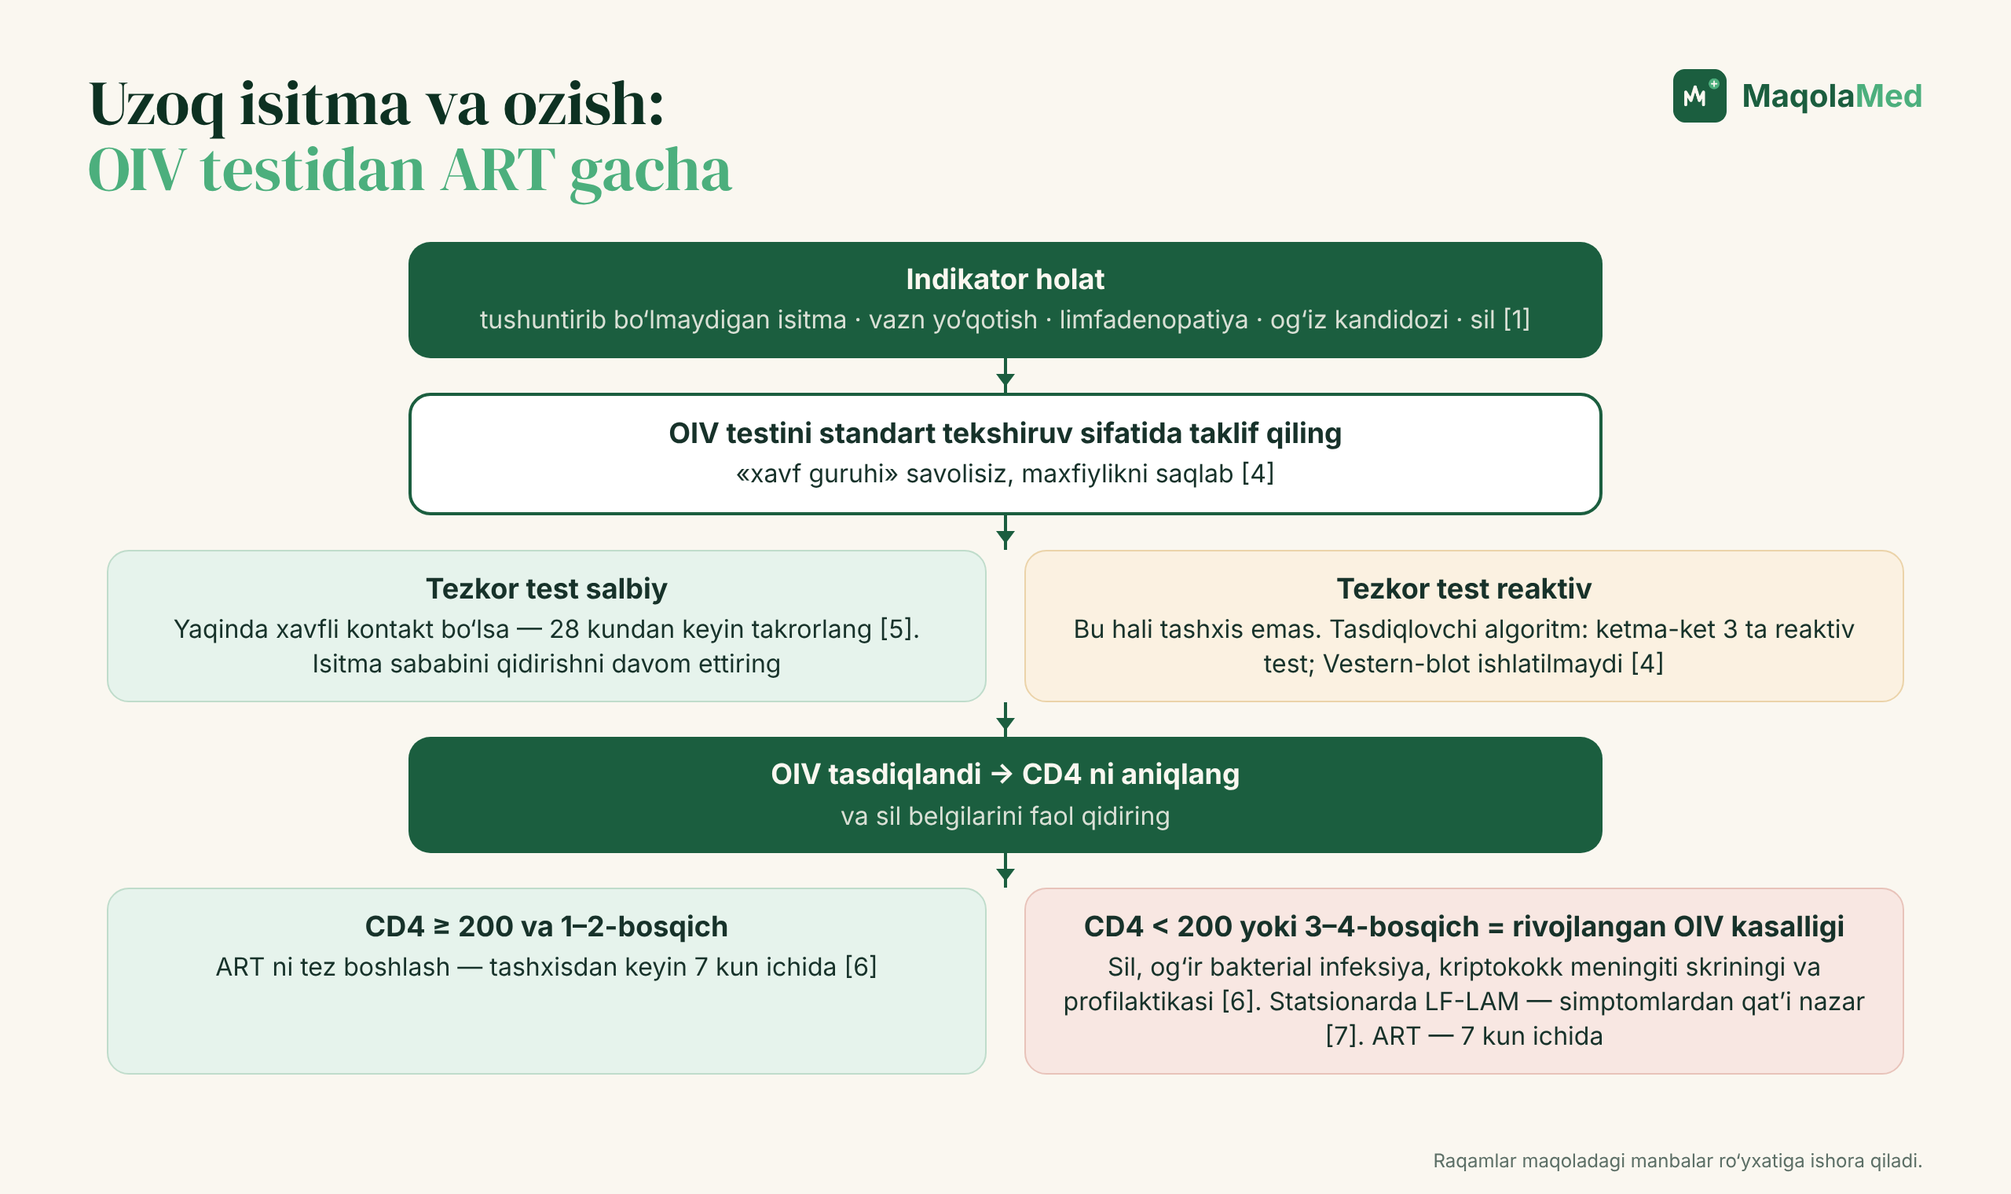
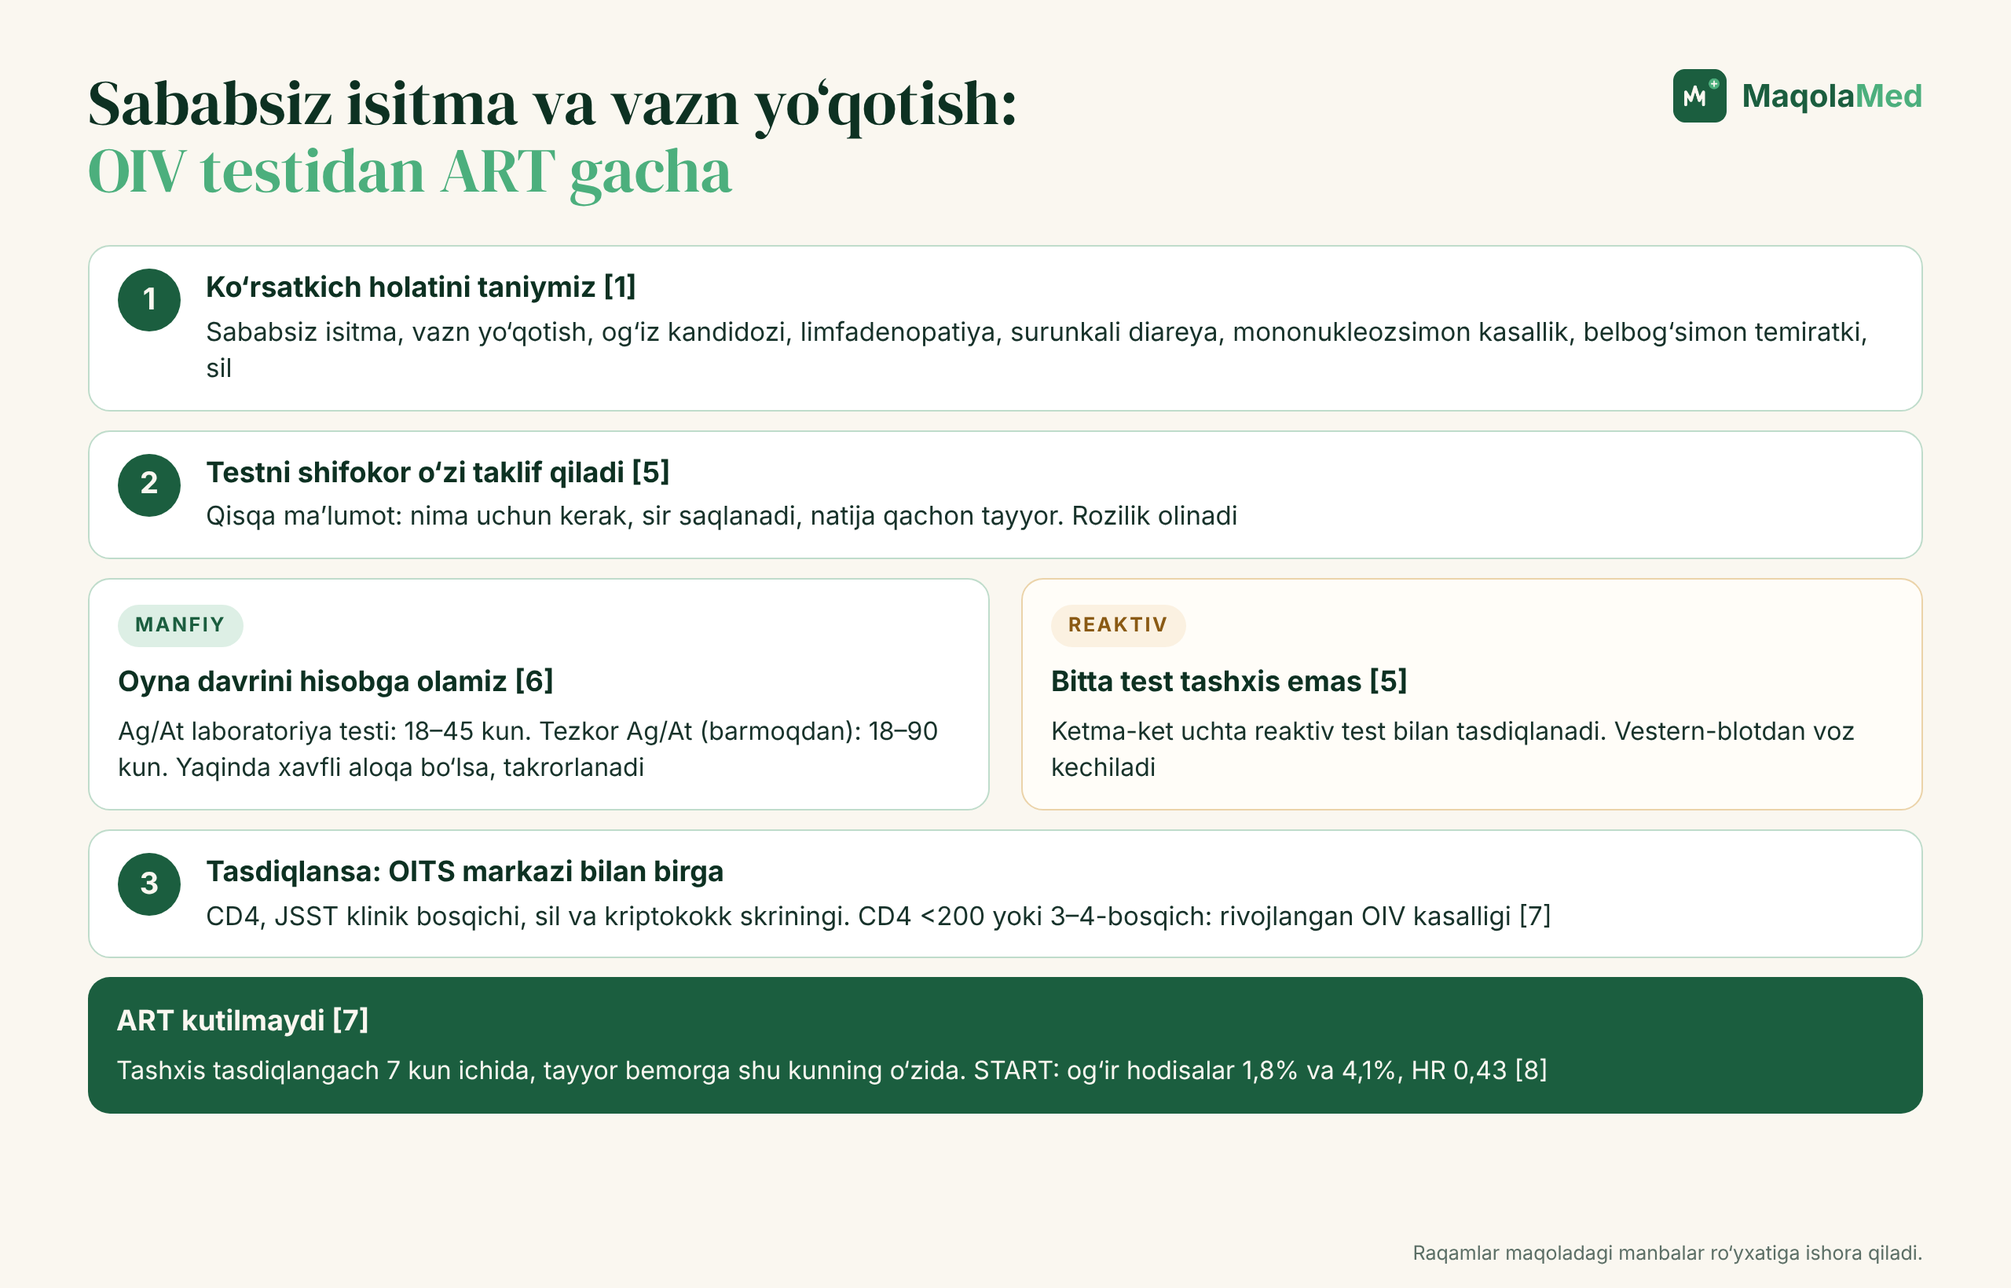
1-dekabr maqolasi qayta yozildi (v2, humanizer): OIV testi — muqovalar, 1 rasm

diff --git a/_manba/2026-12-01/muqova-instagram-4x5.html b/_manba/2026-12-01/muqova-instagram-4x5.html
@@ -1,0 +1,85 @@
+<!doctype html>
+<html lang="uz">
+<head>
+<meta charset="utf-8"><base href="file:///home/claude/maqolamed-rasmlar/_shablon/">
+<style>
+@font-face{font-family:"DM Serif Display";src:url("fonts/dm-serif-display-latin-400-normal.woff2") format("woff2");}
+@font-face{font-family:"DM Serif Display";src:url("fonts/dm-serif-display-latin-ext-400-normal.woff2") format("woff2");unicode-range:U+0100-024F,U+1E00-1EFF;}
+:root{
+  --emerald:#1B5E3F; --deep:#0D3122; --cream:#FAF7F0; --mint:#7FC9A0; --green:#4CAF7D;
+}
+*{margin:0;padding:0;box-sizing:border-box}
+html,body{width:1280px;height:720px;overflow:hidden;background:var(--deep)}
+.cover{position:relative;width:1280px;height:720px;overflow:hidden;font-family:"Inter",sans-serif;color:var(--cream);
+  background:
+    radial-gradient(900px 600px at 78% 40%, rgba(76,175,125,.22), transparent 60%),
+    radial-gradient(700px 500px at 0% 100%, rgba(13,49,34,.9), transparent 70%),
+    linear-gradient(135deg,#123F2C 0%, #1B5E3F 55%, #164D34 100%);}
+.grid{position:absolute;inset:0;background-image:
+    linear-gradient(rgba(250,247,240,.035) 1px,transparent 1px),
+    linear-gradient(90deg,rgba(250,247,240,.035) 1px,transparent 1px);
+  background-size:40px 40px;}
+.ekg{position:absolute;left:0;top:300px;width:1280px;height:200px;opacity:.16}
+.left{position:absolute;left:64px;top:52px;width:690px}
+.brand{display:flex;align-items:center;gap:28px}
+.brand img{height:62px;display:block}
+.tag{display:flex;align-items:center;gap:14px;font-size:13px;letter-spacing:.32em;color:rgba(250,247,240,.72);font-weight:500}
+.tag i{width:4px;height:4px;border-radius:50%;background:var(--mint);display:inline-block}
+.tag .line{width:90px;height:1px;background:rgba(250,247,240,.35)}
+.kicker{margin-top:54px;display:inline-flex;align-items:center;gap:10px;font-size:15px;font-weight:600;letter-spacing:.14em;text-transform:uppercase;color:var(--mint)}
+.kicker span{display:inline-block;width:28px;height:2px;background:var(--mint)}
+h1{margin-top:16px;font-family:"DM Serif Display",serif;font-weight:400;font-size:78px;line-height:.98;letter-spacing:-.01em;color:var(--cream)}
+h1 em{font-style:normal;color:var(--mint)}
+.sub{margin-top:22px;font-size:21px;color:rgba(250,247,240,.82);font-weight:400}
+.points{position:absolute;left:64px;bottom:50px;display:flex;gap:0}
+.pt{width:172px;padding-right:18px;display:flex;flex-direction:column;align-items:flex-start;gap:12px}
+.pt + .pt{padding-left:22px;border-left:1px solid rgba(250,247,240,.18)}
+.ic{width:52px;height:52px;border-radius:50%;border:1.6px solid rgba(250,247,240,.75);display:grid;place-items:center}
+.ic svg{width:26px;height:26px;stroke:var(--cream);fill:none;stroke-width:1.7;stroke-linecap:round;stroke-linejoin:round}
+.pt p{font-size:15px;line-height:1.3;color:rgba(250,247,240,.92);font-weight:500}
+.card{position:absolute;right:56px;top:96px;width:400px;border-radius:22px;padding:28px 30px 26px;
+  background:linear-gradient(160deg,rgba(13,49,34,.82),rgba(13,49,34,.62));
+  border:1px solid rgba(127,201,160,.35);box-shadow:0 30px 60px rgba(0,0,0,.35)}
+.card .ch{display:flex;justify-content:space-between;align-items:center}
+.card .lbl{font-size:12px;letter-spacing:.24em;font-weight:600;color:var(--mint)}
+.card .pill{font-size:12px;font-weight:600;padding:5px 10px;border-radius:999px;background:rgba(127,201,160,.16);color:var(--mint)}
+.card h3{margin-top:14px;font-size:22px;font-weight:600}
+.card h3 small{display:block;margin-top:4px;font-size:14px;font-weight:400;color:rgba(250,247,240,.65)}
+.rows{margin-top:18px;border-top:1px solid rgba(250,247,240,.14)}
+.row{display:flex;justify-content:space-between;padding:9px 0;border-bottom:1px solid rgba(250,247,240,.10);font-size:16px}
+.row span:first-child{color:rgba(250,247,240,.68)}
+.row span:last-child{font-weight:600;font-variant-numeric:tabular-nums}
+.row .ok{color:var(--mint)}
+.quote{margin-top:18px;font-family:"DM Serif Display",serif;font-size:21px;line-height:1.25;color:var(--cream)}
+.ask{margin-top:16px;display:flex;align-items:center;justify-content:space-between;padding:13px 16px;border-radius:12px;background:var(--green);color:#0D3122;font-weight:700;font-size:17px}
+.ask svg{width:22px;height:22px;stroke:#0D3122;fill:none;stroke-width:2.2;stroke-linecap:round;stroke-linejoin:round}
+
+html,body{width:1080px;height:1350px}
+.cover{width:1080px;height:1350px}
+.ekg{top:525px;width:1080px}
+.left{left:72px;top:64px;width:940px}
+.brand img{height:72px}
+h1{font-size:96px;margin-top:18px}
+.kicker{margin-top:56px;font-size:17px}
+.sub{font-size:24px}
+.card{left:72px;right:72px;top:auto;bottom:250px;width:auto;padding:30px 34px}
+.rows{display:grid;grid-template-columns:1fr 1fr;column-gap:40px}
+.quote{font-size:24px}
+.points{left:72px;right:72px;bottom:60px}
+.pt{width:auto;flex:1}
+.pt p{font-size:17px}
+
+
+</style>
+</head>
+<body><div class="cover"><div class="grid"></div>
+<svg class="ekg" viewBox="0 0 1280 200" preserveAspectRatio="none"><polyline fill="none" stroke="#7FC9A0" stroke-width="3" stroke-linejoin="round" stroke-linecap="round" points="0,120 640,120 670,120 690,98 710,120 750,120 770,40 795,175 820,120 880,120 905,102 930,120 1280,120"/></svg>
+<div class="left"><div class="brand"><img src="logo_dark_bg.png" alt="MaqolaMed"></div>
+<div class="tag" style="margin-top:22px"><span>ILM</span><i></i><span>AMALIYOT</span><i></i><span>ODAM UCHUN</span><span class="line"></span></div>
+<div class="kicker"><span></span>Klinik holat · Infeksion kasalliklar</div>
+<h1>Uzoq isitma va<br>vazn yo‘qotish:<br><em>OIV testi qachon?</em></h1>
+<div class="sub">Uchinchi antibiotik kursidan oldin to‘xtab o‘ylang.</div></div>
+<div class="points"><div class="pt"><div class="ic"><svg viewBox="0 0 24 24"><path d="M12 3l9.5 17h-19z"/><path d="M12 10v4"/><path d="M12 17v.5"/></svg></div><p>Qaysi belgilar OIV testiga sabab?</p></div><div class="pt"><div class="ic"><svg viewBox="0 0 24 24"><path d="M9 3h6"/><path d="M10 3v12.5a2 2 0 0 0 4 0V3"/><path d="M10 10h4"/><path d="M5 21h14"/></svg></div><p>Qaysi test va qachon qayta?</p></div><div class="pt"><div class="ic"><svg viewBox="0 0 24 24"><circle cx="12" cy="12" r="9"/><path d="M12 7v5l3 2"/></svg></div><p>Musbat bo‘lsa, ART ni kutamizmi?</p></div><div class="pt"><div class="ic"><svg viewBox="0 0 24 24"><circle cx="12" cy="12" r="9"/><path d="M9.5 9.5a2.5 2.5 0 1 1 3.5 2.3c-.7.3-1 .8-1 1.5v.7"/><path d="M12 17v.5"/></svg></div><p>Testni bemorga qanday taklif qilamiz?</p></div></div>
+<div class="card"><div class="ch"><span class="lbl">BEMOR KARTOCHKASI</span><span class="pill">1-dekabr</span></div>
+<h3>Erkak, 34 yosh, haydovchi<small>Tuman poliklinikasi</small></h3><div class="rows"><div class="row"><span>Isitma</span><span class="">6 hafta</span></div><div class="row"><span>Vazn</span><span class="">−7 kg</span></div><div class="row"><span>Og‘izda</span><span class="">oq karash</span></div><div class="row"><span>Bo‘yin limfa tugunlari</span><span class="">kattalashgan</span></div><div class="row"><span>Seftriakson, «sistema»</span><span class="">3 kurs</span></div><div class="row"><span>OIV testi</span><span class="ok">qilinmagan</span></div></div><div class="quote">«Yana bitta kuchliroq ukol yozing»</div><div class="ask">Siz nima qilardingiz?<svg viewBox="0 0 24 24"><path d="M5 12h14"/><path d="M13 6l6 6-6 6"/></svg></div></div>
+</div></body></html>

diff --git a/_manba/2026-12-01/muqova-16x9.html b/_manba/2026-12-01/muqova-16x9.html
@@ -1,0 +1,70 @@
+<!doctype html>
+<html lang="uz">
+<head>
+<meta charset="utf-8"><base href="file:///home/claude/maqolamed-rasmlar/_shablon/">
+<style>
+@font-face{font-family:"DM Serif Display";src:url("fonts/dm-serif-display-latin-400-normal.woff2") format("woff2");}
+@font-face{font-family:"DM Serif Display";src:url("fonts/dm-serif-display-latin-ext-400-normal.woff2") format("woff2");unicode-range:U+0100-024F,U+1E00-1EFF;}
+:root{
+  --emerald:#1B5E3F; --deep:#0D3122; --cream:#FAF7F0; --mint:#7FC9A0; --green:#4CAF7D;
+}
+*{margin:0;padding:0;box-sizing:border-box}
+html,body{width:1280px;height:720px;overflow:hidden;background:var(--deep)}
+.cover{position:relative;width:1280px;height:720px;overflow:hidden;font-family:"Inter",sans-serif;color:var(--cream);
+  background:
+    radial-gradient(900px 600px at 78% 40%, rgba(76,175,125,.22), transparent 60%),
+    radial-gradient(700px 500px at 0% 100%, rgba(13,49,34,.9), transparent 70%),
+    linear-gradient(135deg,#123F2C 0%, #1B5E3F 55%, #164D34 100%);}
+.grid{position:absolute;inset:0;background-image:
+    linear-gradient(rgba(250,247,240,.035) 1px,transparent 1px),
+    linear-gradient(90deg,rgba(250,247,240,.035) 1px,transparent 1px);
+  background-size:40px 40px;}
+.ekg{position:absolute;left:0;top:300px;width:1280px;height:200px;opacity:.16}
+.left{position:absolute;left:64px;top:52px;width:690px}
+.brand{display:flex;align-items:center;gap:28px}
+.brand img{height:62px;display:block}
+.tag{display:flex;align-items:center;gap:14px;font-size:13px;letter-spacing:.32em;color:rgba(250,247,240,.72);font-weight:500}
+.tag i{width:4px;height:4px;border-radius:50%;background:var(--mint);display:inline-block}
+.tag .line{width:90px;height:1px;background:rgba(250,247,240,.35)}
+.kicker{margin-top:54px;display:inline-flex;align-items:center;gap:10px;font-size:15px;font-weight:600;letter-spacing:.14em;text-transform:uppercase;color:var(--mint)}
+.kicker span{display:inline-block;width:28px;height:2px;background:var(--mint)}
+h1{margin-top:16px;font-family:"DM Serif Display",serif;font-weight:400;font-size:78px;line-height:.98;letter-spacing:-.01em;color:var(--cream)}
+h1 em{font-style:normal;color:var(--mint)}
+.sub{margin-top:22px;font-size:21px;color:rgba(250,247,240,.82);font-weight:400}
+.points{position:absolute;left:64px;bottom:50px;display:flex;gap:0}
+.pt{width:172px;padding-right:18px;display:flex;flex-direction:column;align-items:flex-start;gap:12px}
+.pt + .pt{padding-left:22px;border-left:1px solid rgba(250,247,240,.18)}
+.ic{width:52px;height:52px;border-radius:50%;border:1.6px solid rgba(250,247,240,.75);display:grid;place-items:center}
+.ic svg{width:26px;height:26px;stroke:var(--cream);fill:none;stroke-width:1.7;stroke-linecap:round;stroke-linejoin:round}
+.pt p{font-size:15px;line-height:1.3;color:rgba(250,247,240,.92);font-weight:500}
+.card{position:absolute;right:56px;top:96px;width:400px;border-radius:22px;padding:28px 30px 26px;
+  background:linear-gradient(160deg,rgba(13,49,34,.82),rgba(13,49,34,.62));
+  border:1px solid rgba(127,201,160,.35);box-shadow:0 30px 60px rgba(0,0,0,.35)}
+.card .ch{display:flex;justify-content:space-between;align-items:center}
+.card .lbl{font-size:12px;letter-spacing:.24em;font-weight:600;color:var(--mint)}
+.card .pill{font-size:12px;font-weight:600;padding:5px 10px;border-radius:999px;background:rgba(127,201,160,.16);color:var(--mint)}
+.card h3{margin-top:14px;font-size:22px;font-weight:600}
+.card h3 small{display:block;margin-top:4px;font-size:14px;font-weight:400;color:rgba(250,247,240,.65)}
+.rows{margin-top:18px;border-top:1px solid rgba(250,247,240,.14)}
+.row{display:flex;justify-content:space-between;padding:9px 0;border-bottom:1px solid rgba(250,247,240,.10);font-size:16px}
+.row span:first-child{color:rgba(250,247,240,.68)}
+.row span:last-child{font-weight:600;font-variant-numeric:tabular-nums}
+.row .ok{color:var(--mint)}
+.quote{margin-top:18px;font-family:"DM Serif Display",serif;font-size:21px;line-height:1.25;color:var(--cream)}
+.ask{margin-top:16px;display:flex;align-items:center;justify-content:space-between;padding:13px 16px;border-radius:12px;background:var(--green);color:#0D3122;font-weight:700;font-size:17px}
+.ask svg{width:22px;height:22px;stroke:#0D3122;fill:none;stroke-width:2.2;stroke-linecap:round;stroke-linejoin:round}
+
+
+</style>
+</head>
+<body><div class="cover"><div class="grid"></div>
+<svg class="ekg" viewBox="0 0 1280 200" preserveAspectRatio="none"><polyline fill="none" stroke="#7FC9A0" stroke-width="3" stroke-linejoin="round" stroke-linecap="round" points="0,120 640,120 670,120 690,98 710,120 750,120 770,40 795,175 820,120 880,120 905,102 930,120 1280,120"/></svg>
+<div class="left"><div class="brand"><img src="logo_dark_bg.png" alt="MaqolaMed"></div>
+<div class="tag" style="margin-top:22px"><span>ILM</span><i></i><span>AMALIYOT</span><i></i><span>ODAM UCHUN</span><span class="line"></span></div>
+<div class="kicker"><span></span>Klinik holat · Infeksion kasalliklar</div>
+<h1>Uzoq isitma va<br>vazn yo‘qotish:<br><em>OIV testi qachon?</em></h1>
+<div class="sub">Uchinchi antibiotik kursidan oldin to‘xtab o‘ylang.</div></div>
+<div class="points"><div class="pt"><div class="ic"><svg viewBox="0 0 24 24"><path d="M12 3l9.5 17h-19z"/><path d="M12 10v4"/><path d="M12 17v.5"/></svg></div><p>Qaysi belgilar OIV testiga sabab?</p></div><div class="pt"><div class="ic"><svg viewBox="0 0 24 24"><path d="M9 3h6"/><path d="M10 3v12.5a2 2 0 0 0 4 0V3"/><path d="M10 10h4"/><path d="M5 21h14"/></svg></div><p>Qaysi test va qachon qayta?</p></div><div class="pt"><div class="ic"><svg viewBox="0 0 24 24"><circle cx="12" cy="12" r="9"/><path d="M12 7v5l3 2"/></svg></div><p>Musbat bo‘lsa, ART ni kutamizmi?</p></div><div class="pt"><div class="ic"><svg viewBox="0 0 24 24"><circle cx="12" cy="12" r="9"/><path d="M9.5 9.5a2.5 2.5 0 1 1 3.5 2.3c-.7.3-1 .8-1 1.5v.7"/><path d="M12 17v.5"/></svg></div><p>Testni bemorga qanday taklif qilamiz?</p></div></div>
+<div class="card"><div class="ch"><span class="lbl">BEMOR KARTOCHKASI</span><span class="pill">1-dekabr</span></div>
+<h3>Erkak, 34 yosh, haydovchi<small>Tuman poliklinikasi</small></h3><div class="rows"><div class="row"><span>Isitma</span><span class="">6 hafta</span></div><div class="row"><span>Vazn</span><span class="">−7 kg</span></div><div class="row"><span>Og‘izda</span><span class="">oq karash</span></div><div class="row"><span>Bo‘yin limfa tugunlari</span><span class="">kattalashgan</span></div><div class="row"><span>Seftriakson, «sistema»</span><span class="">3 kurs</span></div><div class="row"><span>OIV testi</span><span class="ok">qilinmagan</span></div></div><div class="quote">«Yana bitta kuchliroq ukol yozing»</div><div class="ask">Siz nima qilardingiz?<svg viewBox="0 0 24 24"><path d="M5 12h14"/><path d="M13 6l6 6-6 6"/></svg></div></div>
+</div></body></html>

diff --git a/_manba/2026-12-01/1-rasm.html b/_manba/2026-12-01/1-rasm.html
@@ -1,0 +1,44 @@
+<!doctype html><html lang="uz"><head><meta charset="utf-8"><base href="file:///home/claude/maqolamed-rasmlar/_shablon/"><style>
+@font-face{font-family:"DM Serif Display";src:url("fonts/dm-serif-display-latin-400-normal.woff2") format("woff2");}
+@font-face{font-family:"DM Serif Display";src:url("fonts/dm-serif-display-latin-ext-400-normal.woff2") format("woff2");unicode-range:U+0100-024F,U+1E00-1EFF;}
+:root{--emerald:#1B5E3F;--deep:#0D3122;--cream:#FAF7F0;--mint:#7FC9A0;--green:#4CAF7D;--ink:#17322A;--muted:#5C6F66;--amber:#C98A2E;--amberbg:#FBF1E1;--red:#B5513F;--redbg:#F8E7E2}
+*{margin:0;padding:0;box-sizing:border-box}
+html,body{width:1280px;height:820px;background:var(--cream);overflow:hidden}
+.fig{position:relative;width:1280px;height:820px;padding:44px 56px;font-family:"Inter",sans-serif;color:var(--ink)}
+.top{display:flex;justify-content:space-between;align-items:flex-start;margin-bottom:26px}
+h1{font-family:"DM Serif Display",serif;font-weight:400;font-size:40px;line-height:1.08;color:var(--deep)}
+h1 em{font-style:normal;color:var(--green)}
+.brand{display:flex;align-items:center;gap:10px;font-weight:700;font-size:20px;color:var(--emerald);white-space:nowrap}
+.brand img{height:34px}.brand b{color:var(--green);font-weight:700}
+table{width:100%;border-collapse:separate;border-spacing:0;font-size:17px;line-height:1.35;background:#fff;border-radius:14px;overflow:hidden;border:1.5px solid #BFDCCB}
+th{background:var(--emerald);color:var(--cream);text-align:left;padding:13px 16px;font-size:16px;font-weight:600}
+td{padding:12px 16px;border-top:1px solid #E3EDE7;vertical-align:top}
+td:first-child{font-weight:600;color:var(--deep);width:24%}
+tr:nth-child(even) td{background:#F6FAF7}
+.good{color:var(--emerald);font-weight:600}.bad{color:var(--red);font-weight:600}.mid{color:#8A5A14;font-weight:600}
+.row3{display:flex;gap:20px}
+.box{flex:1;border-radius:14px;padding:16px 18px;font-size:16px;line-height:1.42;background:#fff;border:1.5px solid #BFDCCB}
+.box b.t{display:block;font-size:18px;margin-bottom:6px;color:var(--deep)}
+.box.g{border-color:#BFDCCB}.box.a{border-color:#EBD3A9;background:#FFFDF8}.box.r{border-color:#E8C3BA;background:#FFFBFA}
+.box.dark{background:var(--emerald);color:var(--cream);border:none}.box.dark b.t{color:var(--cream)}
+.step{display:flex;gap:16px;align-items:flex-start;background:#fff;border:1.5px solid #BFDCCB;border-radius:14px;padding:14px 18px;margin-bottom:12px;font-size:16.5px;line-height:1.42}
+.num{flex:none;width:40px;height:40px;border-radius:50%;background:var(--emerald);color:var(--cream);display:grid;place-items:center;font-weight:700;font-size:19px}
+.step b.t{display:block;font-size:18px;color:var(--deep);margin-bottom:3px}
+.tag{display:inline-block;font-size:12.5px;font-weight:700;letter-spacing:.1em;text-transform:uppercase;padding:5px 11px;border-radius:999px;margin-bottom:10px}
+.tg{background:#DDEFE5;color:var(--emerald)}.ta{background:var(--amberbg);color:#8A5A14}.tr{background:var(--redbg);color:var(--red)}
+.note{margin-top:18px;padding:14px 18px;border-radius:12px;background:#EEF2EE;font-size:15.5px;line-height:1.42}
+.note b{color:var(--deep)}
+.src{position:absolute;right:56px;bottom:14px;font-size:12.5px;color:var(--muted)}
+ul.l{margin:6px 0 0 18px}ul.l li{margin:3px 0}
+</style>
+</head><body><div class="fig">
+<div class="top"><h1>Sababsiz isitma va vazn yo‘qotish:<br><em>OIV testidan ART gacha</em></h1><div class="brand"><img src="icon.png" alt=""><span>Maqola<b>Med</b></span></div></div>
+<div class="step"><div class="num">1</div><div><b class="t">Ko‘rsatkich holatini taniymiz [1]</b>Sababsiz isitma, vazn yo‘qotish, og‘iz kandidozi, limfadenopatiya, surunkali diareya, mononukleozsimon kasallik, belbog‘simon temiratki, sil</div></div>
+<div class="step"><div class="num">2</div><div><b class="t">Testni shifokor o‘zi taklif qiladi [5]</b>Qisqa ma’lumot: nima uchun kerak, sir saqlanadi, natija qachon tayyor. Rozilik olinadi</div></div>
+<div class="row3" style="margin-bottom:12px">
+<div class="box g"><span class="tag tg">Manfiy</span><b class="t">Oyna davrini hisobga olamiz [6]</b>Ag/At laboratoriya testi: 18–45 kun. Tezkor Ag/At (barmoqdan): 18–90 kun. Yaqinda xavfli aloqa bo‘lsa, takrorlanadi</div>
+<div class="box a"><span class="tag ta">Reaktiv</span><b class="t">Bitta test tashxis emas [5]</b>Ketma-ket uchta reaktiv test bilan tasdiqlanadi. Vestern-blotdan voz kechiladi</div>
+</div>
+<div class="step"><div class="num">3</div><div><b class="t">Tasdiqlansa: OITS markazi bilan birga</b>CD4, JSST klinik bosqichi, sil va kriptokokk skriningi. CD4 &lt;200 yoki 3–4-bosqich: rivojlangan OIV kasalligi [7]</div></div>
+<div class="box dark" style="margin-top:4px"><b class="t">ART kutilmaydi [7]</b>Tashxis tasdiqlangach 7 kun ichida, tayyor bemorga shu kunning o‘zida. START: og‘ir hodisalar 1,8% va 4,1%, HR 0,43 [8]</div>
+<div class="src">Raqamlar maqoladagi manbalar ro‘yxatiga ishora qiladi.</div></div></body></html>
